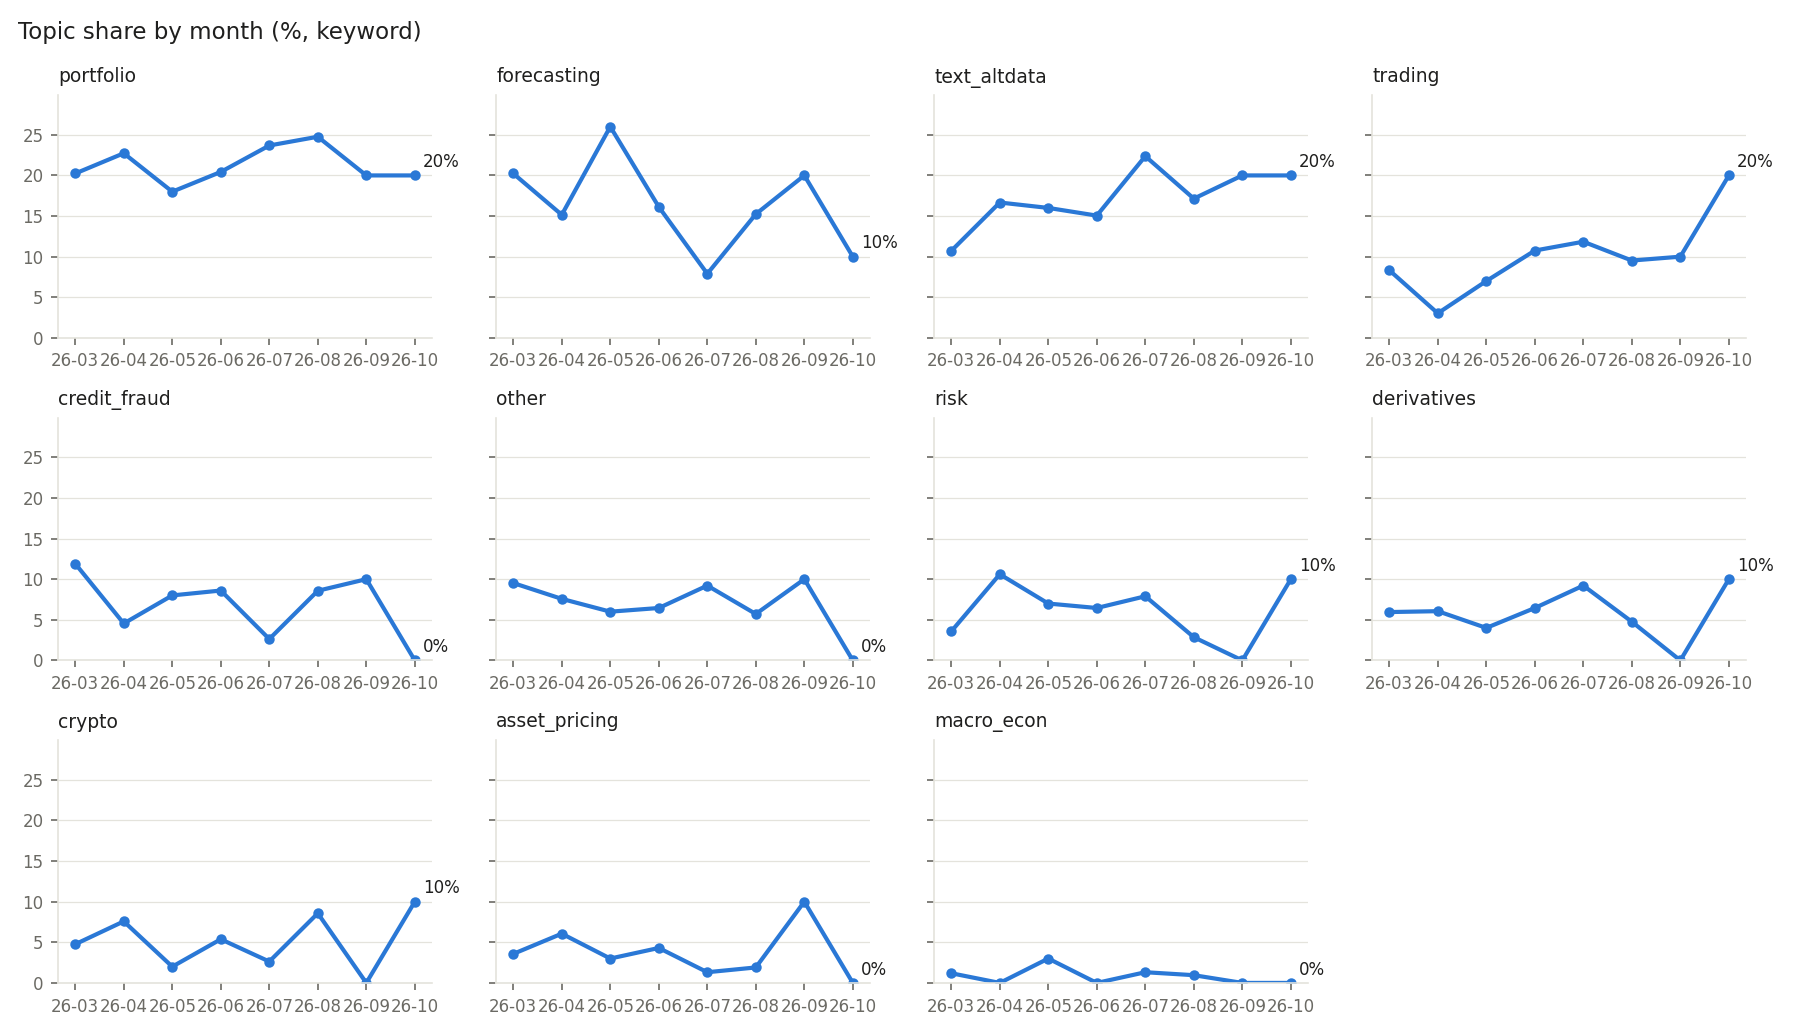
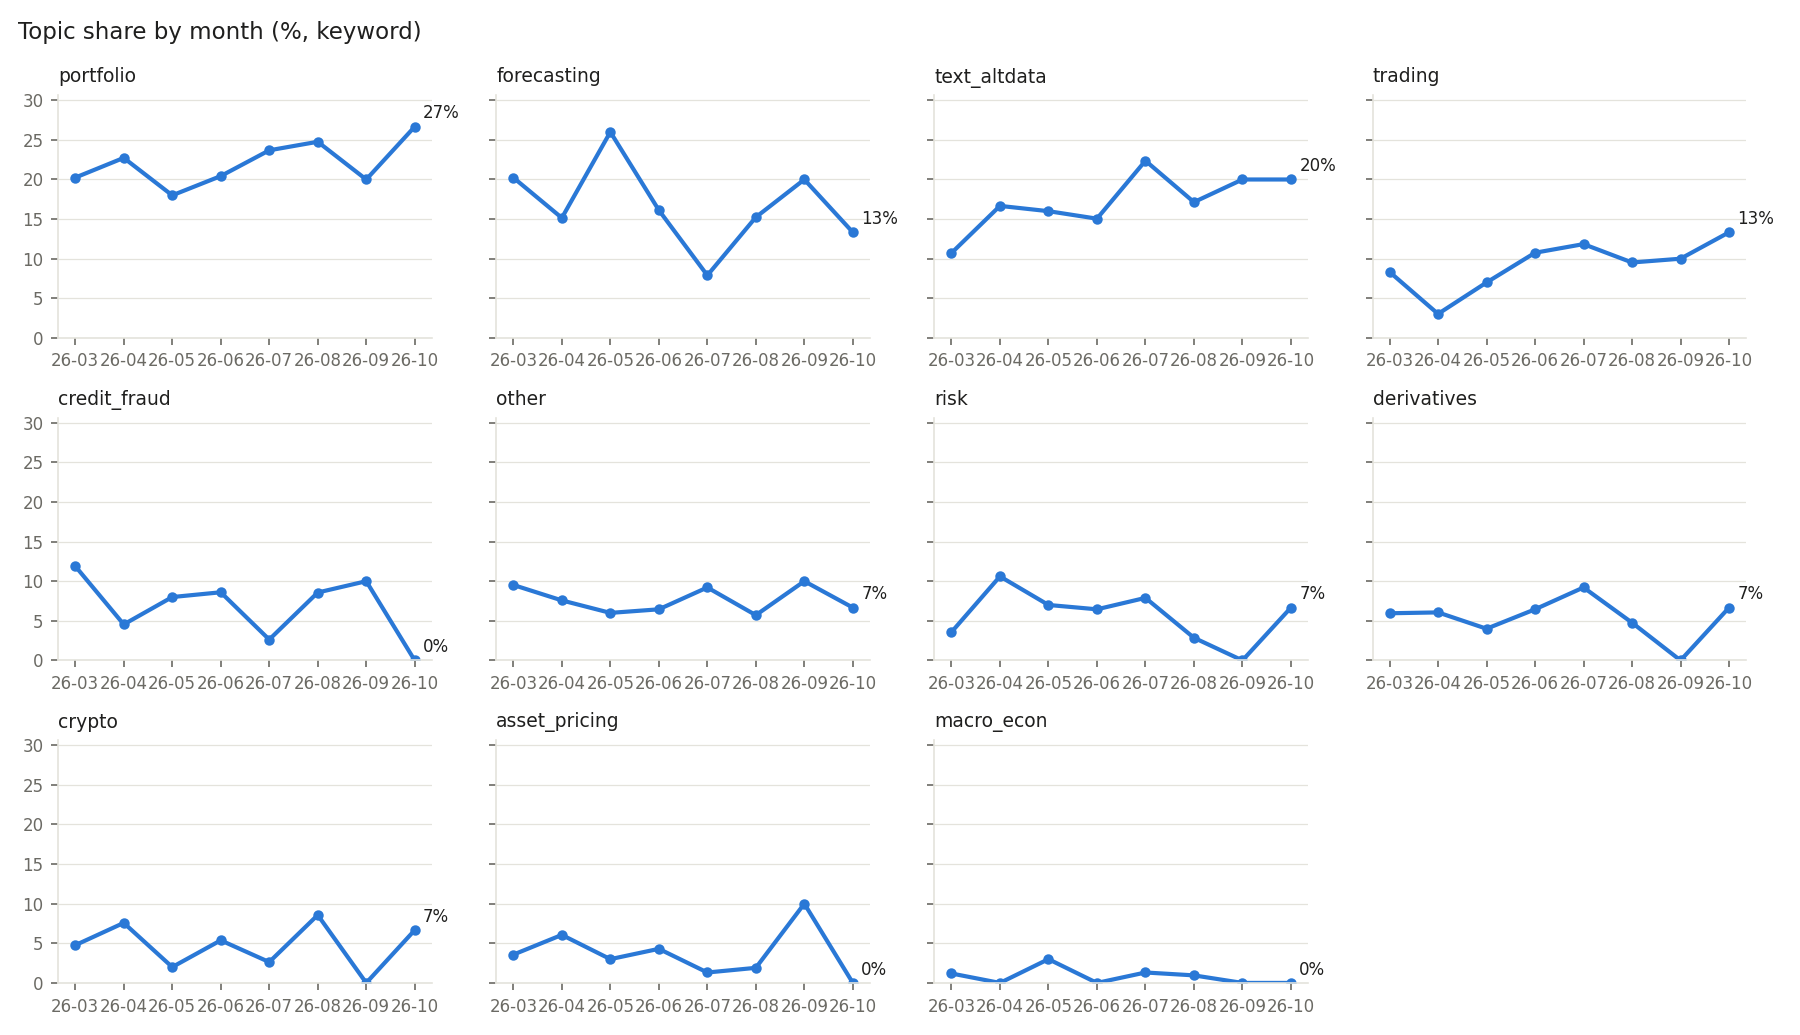
Weekly update: add new papers (2026-10-19)

diff --git a/outputs/reports/trend_report_keyword.md b/outputs/reports/trend_report_keyword.md
@@ -1,7 +1,7 @@
 # 금융 머신러닝 (Financial Machine Learning) 연구 동향 보고서
 
-- 생성: 2026-10-12 05:33 · 분류 방식: **keyword**
-- 데이터: arXiv API, 2026-03 ~ 2026-10 (8개월), 논문 544건
+- 생성: 2026-10-19 04:16 · 분류 방식: **keyword**
+- 데이터: arXiv API, 2026-03 ~ 2026-10 (8개월), 논문 549건
 - 월별 비중은 LLM 이 아니라 코드로 계산 (해당 월 논문 수 대비 비율)
 
 ## 1. 월별 논문 수
@@ -14,48 +14,48 @@
 
 | 주제 | 논문 수 | 전체 비중 | 26-03 | 26-04 | 26-05 | 26-06 | 26-07 | 26-08 | 26-09 | 26-10 | 전반→후반 (%p) |
 |---|---:|---:|---:|---:|---:|---:|---:|---:|---:|---:|---:|
-| 포트폴리오·자산배분 | 117 | 21.5% | 20% | 23% | 18% | 20% | 24% | 25% | 20% | 20% | +3.8 |
-| 수익률·가격 예측 | 93 | 17.1% | 20% | 15% | 26% | 16% | 8% | 15% | 20% | 10% | -7.4 |
-| 금융 텍스트·감성·대체데이터 | 89 | 16.4% | 11% | 17% | 16% | 15% | 22% | 17% | 20% | 20% | +4.8 |
-| 트레이딩·시장 미시구조 | 48 | 8.8% | 8% | 3% | 7% | 11% | 12% | 10% | 10% | 20% | +3.4 |
-| 신용·사기탐지·은행 | 41 | 7.5% | 12% | 5% | 8% | 9% | 3% | 9% | 10% | 0% | -2.5 |
-| 기타 | 39 | 7.2% | 10% | 8% | 6% | 6% | 9% | 6% | 10% | 0% | -0.3 |
-| 리스크·변동성 | 33 | 6.1% | 4% | 11% | 7% | 6% | 8% | 3% | 0% | 10% | -1.7 |
-| 파생상품 가격결정·헤징 | 32 | 5.9% | 6% | 6% | 4% | 6% | 9% | 5% | 0% | 10% | +0.9 |
-| 암호화폐·DeFi | 28 | 5.1% | 5% | 8% | 2% | 5% | 3% | 9% | 0% | 10% | +1.3 |
+| 포트폴리오·자산배분 | 119 | 21.7% | 20% | 23% | 18% | 20% | 24% | 25% | 20% | 27% | +4.2 |
+| 수익률·가격 예측 | 94 | 17.1% | 20% | 15% | 26% | 16% | 8% | 15% | 20% | 13% | -7.2 |
+| 금융 텍스트·감성·대체데이터 | 90 | 16.4% | 11% | 17% | 16% | 15% | 22% | 17% | 20% | 20% | +4.8 |
+| 트레이딩·시장 미시구조 | 48 | 8.7% | 8% | 3% | 7% | 11% | 12% | 10% | 10% | 13% | +3.1 |
+| 신용·사기탐지·은행 | 41 | 7.5% | 12% | 5% | 8% | 9% | 3% | 9% | 10% | 0% | -2.6 |
+| 기타 | 40 | 7.3% | 10% | 8% | 6% | 6% | 9% | 6% | 10% | 7% | -0.0 |
+| 리스크·변동성 | 33 | 6.0% | 4% | 11% | 7% | 6% | 8% | 3% | 0% | 7% | -1.9 |
+| 파생상품 가격결정·헤징 | 32 | 5.8% | 6% | 6% | 4% | 6% | 9% | 5% | 0% | 7% | +0.8 |
+| 암호화폐·DeFi | 28 | 5.1% | 5% | 8% | 2% | 5% | 3% | 9% | 0% | 7% | +1.2 |
 | 자산가격결정·팩터 | 18 | 3.3% | 4% | 6% | 3% | 4% | 1% | 2% | 10% | 0% | -2.1 |
 | 거시경제·정책 | 6 | 1.1% | 1% | 0% | 3% | 0% | 1% | 1% | 0% | 0% | -0.2 |
 
-> ⚠ 논문이 30건 미만인 달은 비중이 크게 흔들리므로 해석에 주의: 2026-09 (10건), 2026-10 (10건)
+> ⚠ 논문이 30건 미만인 달은 비중이 크게 흔들리므로 해석에 주의: 2026-09 (10건), 2026-10 (15건)
 
 ## 3. 증가·감소 주제
 
-**증가**: 금융 텍스트·감성·대체데이터 (+4.8%p, 기울기 +1.10%p/월), 포트폴리오·자산배분 (+3.8%p, 기울기 +0.10%p/월), 트레이딩·시장 미시구조 (+3.4%p, 기울기 +1.49%p/월)
+**증가**: 금융 텍스트·감성·대체데이터 (+4.8%p, 기울기 +1.10%p/월), 포트폴리오·자산배분 (+4.2%p, 기울기 +0.65%p/월), 트레이딩·시장 미시구조 (+3.1%p, 기울기 +0.93%p/월)
 
-**감소**: 수익률·가격 예측 (-7.4%p, 기울기 -1.05%p/월), 신용·사기탐지·은행 (-2.5%p, 기울기 -0.72%p/월), 자산가격결정·팩터 (-2.1%p, 기울기 -0.14%p/월)
+**감소**: 수익률·가격 예측 (-7.2%p, 기울기 -0.77%p/월), 신용·사기탐지·은행 (-2.6%p, 기울기 -0.72%p/월), 자산가격결정·팩터 (-2.1%p, 기울기 -0.14%p/월)
 
 ## 4. 주제별 요약과 근거 논문
 
-### 포트폴리오·자산배분 (117건)
+### 포트폴리오·자산배분 (119건)
 
 근거 논문:
-- (2026-09) [Propose, Don't Judge: An Anytime-Valid Referee for LLM Agents That Mine Investment Factors](http://arxiv.org/abs/2609.27051v1)
-- (2026-10) [PreFER: Interactive Robo-Advisor with Scoring Mechanism](http://arxiv.org/abs/2610.03406v1)
 - (2026-10) [MLP-Initialized Reinforcement Learning for Exit Timing in SPX Short-Straddle Portfolios](http://arxiv.org/abs/2610.13126v1)
+- (2026-10) [AlphaLedger: Portfolio-Grounded On-Policy Distillation for Regime-Aware Alpha Mining](http://arxiv.org/abs/2610.23744v1)
+- (2026-10) [Causal Value Attribution of Marketing Labels in LLM-Generated Ads: A Deconfounder Approach](http://arxiv.org/abs/2610.23025v1)
 
-### 수익률·가격 예측 (93건)
+### 수익률·가격 예측 (94건)
 
 근거 논문:
-- (2026-09) [The Informational Content in Lepto-Variance and Its Relation to Higher Moments](http://arxiv.org/abs/2609.25144v1)
 - (2026-09) [EXAONE Demand 1.0: A Time Series Foundation Model for Demand Forecasting](http://arxiv.org/abs/2609.30880v1)
 - (2026-10) [Large-Scale Benchmarking of Quantum Neural Network Configurations for Financial Time Series Forecasting](http://arxiv.org/abs/2610.12148v1)
+- (2026-10) [OrderFlowDiT: Transport-Regularized Diffusion Transformer for Probabilistic Limit-Order Supply Forecasting](http://arxiv.org/abs/2610.22727v1)
 
-### 금융 텍스트·감성·대체데이터 (89건)
+### 금융 텍스트·감성·대체데이터 (90건)
 
 근거 논문:
-- (2026-09) [Same Text, Different Numbers: The Divergence of LLM-Based Measures](http://arxiv.org/abs/2609.31013v1)
-- (2026-10) [Trading Strategy Optimization via Textual Gradient](http://arxiv.org/abs/2610.03128v1)
 - (2026-10) [MintEval: Do LLMs Implement the Trading Strategy You Asked For? A Behavioural-Equivalence Benchmark for Natural-Language-to-Strategy Code](http://arxiv.org/abs/2610.03080v1)
+- (2026-10) [Trading Strategy Optimization via Textual Gradient](http://arxiv.org/abs/2610.03128v1)
+- (2026-10) [Reading the News Without Hindsight: NoLBERT Topics and the Cross-Section of Stock Returns](http://arxiv.org/abs/2610.22745v1)
 
 ### 트레이딩·시장 미시구조 (48건)
 
@@ -71,12 +71,12 @@
 - (2026-08) [Oculi: A Conversational Agentic Platform for Automated Credit Risk Analysis](http://arxiv.org/abs/2608.28944v1)
 - (2026-09) [Financial Fragility in Societies of LLM Agents: Coordination Failures and Stabilizing Mechanisms](http://arxiv.org/abs/2609.30940v1)
 
-### 기타 (39건)
+### 기타 (40건)
 
 근거 논문:
-- (2026-08) [Spatially explicit feature importance for building height estimation using research-access high-resolution SAR and optical sensors](http://arxiv.org/abs/2608.17822v1)
 - (2026-08) [PGFS++: Molecular Property Improvement under Synthesis and Diversity Constraints](http://arxiv.org/abs/2608.19121v1)
 - (2026-09) [Bridging LLM Serving and CXL-SSDs with Chunk-Aware KV Cache Management](http://arxiv.org/abs/2609.26828v1)
+- (2026-10) [Same Person, Different Advice: Auditing LLM Financial Advice with Repeated Risk-Tolerance Responses](http://arxiv.org/abs/2610.23060v1)
 
 ### 리스크·변동성 (33건)
 
@@ -120,9 +120,9 @@
 | 방법론 | 26-03 | 26-04 | 26-05 | 26-06 | 26-07 | 26-08 | 26-09 | 26-10 |
 |---|---:|---:|---:|---:|---:|---:|---:|---:|
 | 전통 ML(트리·선형·SVM) | 5% | 5% | 4% | 3% | 8% | 9% | 0% | 0% |
-| 딥러닝 시계열(Transformer·RNN 등) | 30% | 29% | 26% | 19% | 30% | 17% | 10% | 30% |
+| 딥러닝 시계열(Transformer·RNN 등) | 30% | 29% | 26% | 19% | 30% | 17% | 10% | 33% |
 | 생성모델(Diffusion·GAN·VAE) | 5% | 5% | 5% | 6% | 0% | 3% | 10% | 0% |
 | 그래프 신경망 | 2% | 0% | 0% | 0% | 3% | 1% | 0% | 0% |
-| LLM·생성형 에이전트 | 37% | 48% | 51% | 54% | 41% | 53% | 70% | 50% |
+| LLM·생성형 에이전트 | 37% | 48% | 51% | 54% | 41% | 53% | 70% | 53% |
 | 기타/통계·이론 | 14% | 6% | 8% | 6% | 7% | 10% | 10% | 0% |
-| 강화학습 | 7% | 8% | 6% | 11% | 12% | 8% | 0% | 20% |
+| 강화학습 | 7% | 8% | 6% | 11% | 12% | 8% | 0% | 13% |
